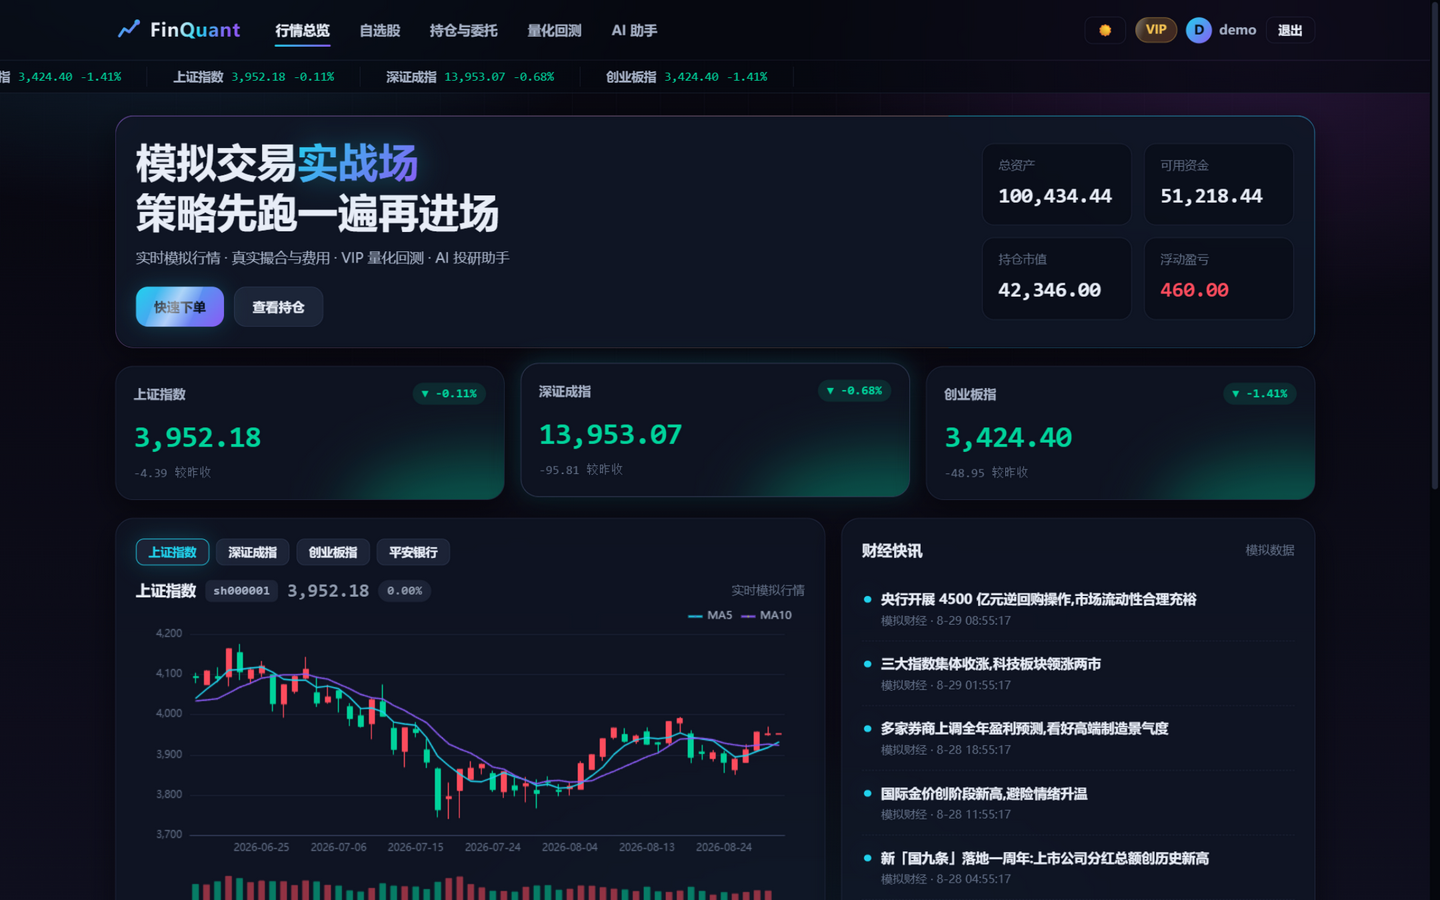
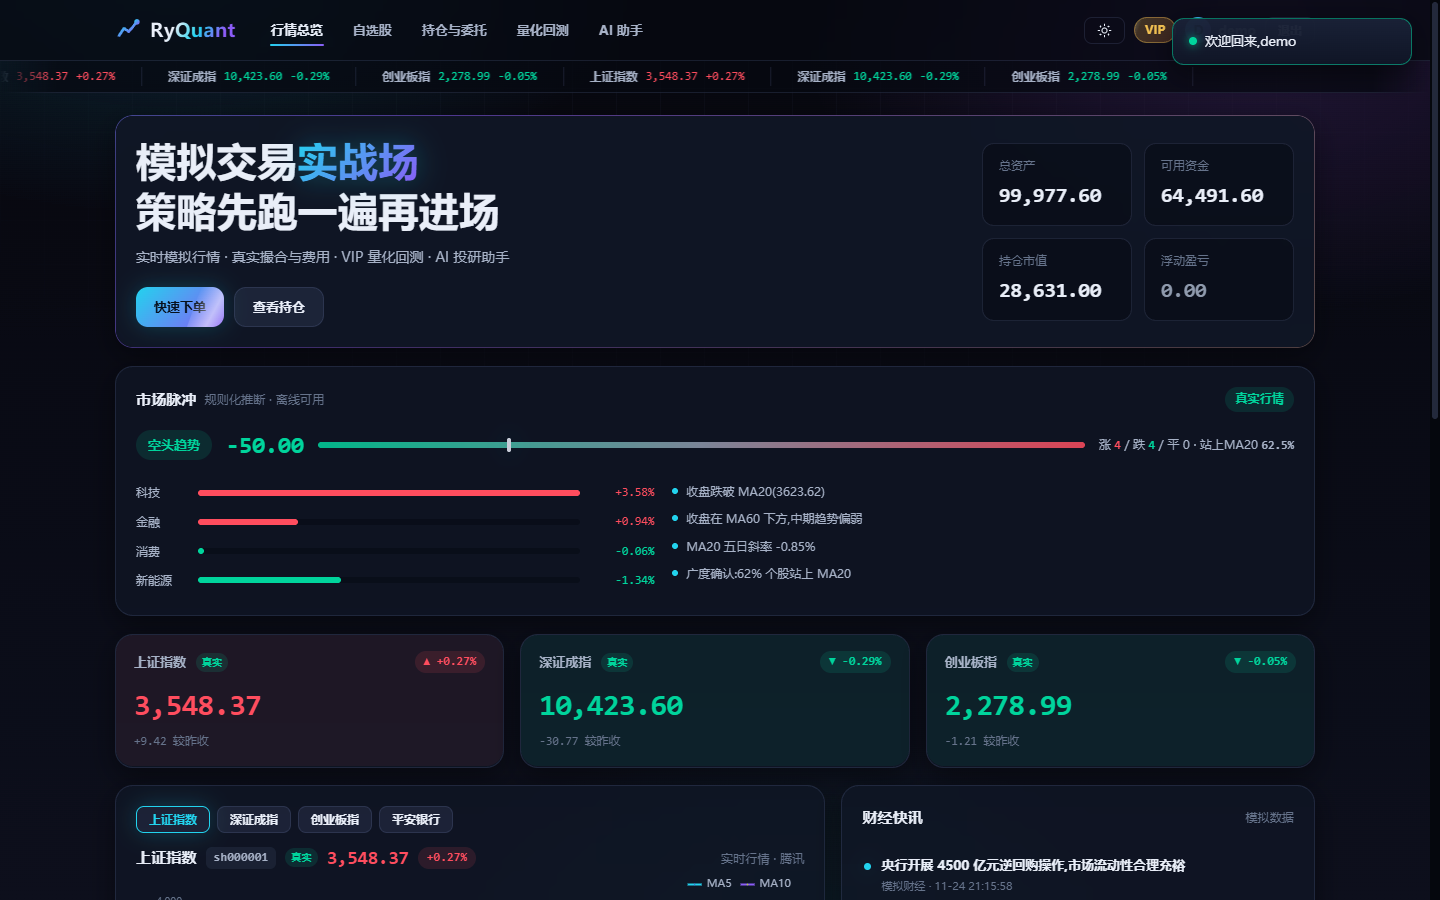
test+review: R1/R2/R3 review round fixes and GUI verification
- R2: headless-Edge CDP walkthrough (dark/light/mobile, login, compare tab, order modal focus trap, drawer) - zero console errors; docs/home.png recaptured
- R3: daily history refresh moved to background thread (no tick blocking); pulse hint spacing; README test counts 94/20
- tests: sync-thread harness for refresh; +2 limit-up basis cases (20 frontend)

diff --git a/frontend/src/utils/validate.test.js b/frontend/src/utils/validate.test.js
@@ -65,3 +65,16 @@ describe("parseQuantity", () => {
     expect(parseQuantity("x")).toBeNull();
   });
 });
+
+describe("涨停快捷价基准(昨收而非现价)", () => {
+  const prevClose = 13.2;
+  const limitHigh = Math.round(prevClose * 1.1 * 100) / 100; // 14.52
+  const band = { low: 11.88, high: limitHigh };
+  it("昨收基准的涨停价恰落在区间上界,校验通过", () => {
+    expect(priceError(limitHigh.toFixed(2), band)).toBeNull();
+  });
+  it("旧 bug 的现价基准涨停价越界,被拒绝", () => {
+    const wrong = Math.round(13.88 * 1.1 * 100) / 100; // 15.27
+    expect(priceError(wrong.toFixed(2), band)).toMatch(/超出涨跌停范围/);
+  });
+});

diff --git a/frontend/src/components/MarketPulse.vue b/frontend/src/components/MarketPulse.vue
@@ -96,6 +96,7 @@ function heatWidth(pct) {
   background: var(--inset-bg);
   min-width: 260px;
 }
+.pulse-panel .panel-title .hint { margin-left: 8px; }
 .pulse-head { display: flex; align-items: center; gap: 14px; flex-wrap: wrap; }
 .pulse-regime { font-size: 13px; padding: 4px 12px; }
 .pulse-score { font-size: 24px; font-weight: 800; }

diff --git a/backend/trading/tests/test_data_accuracy.py b/backend/trading/tests/test_data_accuracy.py
@@ -95,7 +95,17 @@ class RealTickTests(BaseAPITestCase):
         now = timezone.make_aware(datetime(2026, 11, 24, 10, 0))  # 周二
         yesterday = (now.date() - timedelta(days=1)).strftime("%Y-%m-%d")
         rows = [(yesterday, Decimal("13.5"), Decimal("13.8"), Decimal("13.9"), Decimal("13.4"), 12345)]
-        with mock.patch.object(market_sim, "fetch_real_daily_tencent", return_value=rows) as fetch:
+
+        class SyncThread:  # 刷新已改后台线程,测试内同步执行以便断言
+            def __init__(self, target=None, args=(), **kw):
+                self.target, self.args = target, args
+
+            def start(self):
+                self.target(*self.args)
+
+        with mock.patch.object(market_sim, "fetch_real_daily_tencent", return_value=rows) as fetch, \
+                mock.patch.object(market_sim.threading, "Thread", SyncThread), \
+                mock.patch.object(market_sim, "close_old_connections", lambda: None):
             market_sim._maybe_refresh_daily(now, [self.stock])
             self.assertEqual(fetch.call_count, 1)
             # 同日再次 tick 不重复抓取

diff --git a/backend/trading/services/market_sim.py b/backend/trading/services/market_sim.py
@@ -175,12 +175,18 @@ def _parse_day(date_str):
 
 
 def _maybe_refresh_daily(now, stocks) -> None:
-    """每交易日一次:增量补抓腾讯真实日 K(失败静默),避免历史冻结在 seed 时点。"""
+    """每交易日一次:后台线程增量补抓腾讯真实日 K(失败静默),不阻塞 tick 主循环。"""
     global _last_refresh_date
     today = now.date()
     if _last_refresh_date == today or now.weekday() >= 5:
         return
     _last_refresh_date = today
+    threading.Thread(target=_refresh_daily_all, args=(list(stocks), today),
+                     name="daily-history-refresh", daemon=True).start()
+
+
+def _refresh_daily_all(stocks, today) -> None:
+    close_old_connections()
     for stock in stocks:
         try:
             rows = fetch_real_daily_tencent(stock.symbol, count=5)
@@ -198,6 +204,7 @@ def _maybe_refresh_daily(now, stocks) -> None:
                 )
         except Exception:
             logger.debug("日 K 增量刷新失败: %s", stock.symbol, exc_info=True)
+    close_old_connections()
 
 
 def tick() -> None:

diff --git a/README.md b/README.md
@@ -137,10 +137,10 @@ npm run dev                       # http://localhost:5173(默认代理指向 127
 ## 测试
 
 ```bash
-# 后端(64 个用例:下单校验 / 撮合 / 部分成交 / 冻结结算 / 撤单 / 权限 / 回测引擎 / 指标)
+# 后端(94 个用例:下单校验 / 撮合 / 部分成交 / 冻结结算 / 撤单 / 权限 / 回测引擎 / 指标 / 报价parser / 行情推断 / 策略对比)
 cd backend && python manage.py test trading
 
-# 前端(18 个用例:格式化 / 下单校验)
+# 前端(20 个用例:格式化 / 下单校验 / 涨停基准)
 cd frontend && npm test
 
 # 全链路冒烟(需后端已启动)
